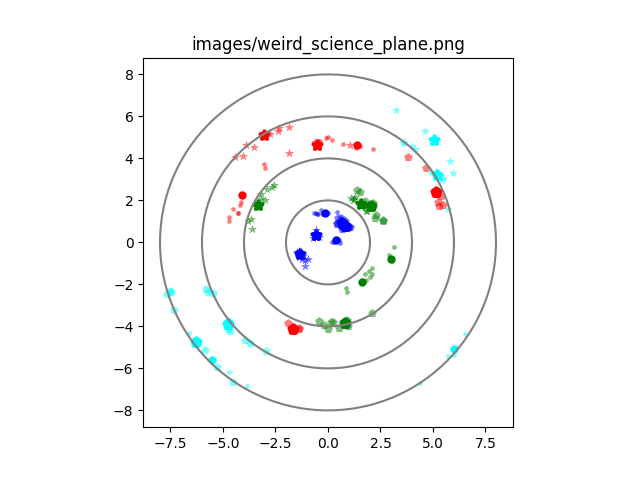
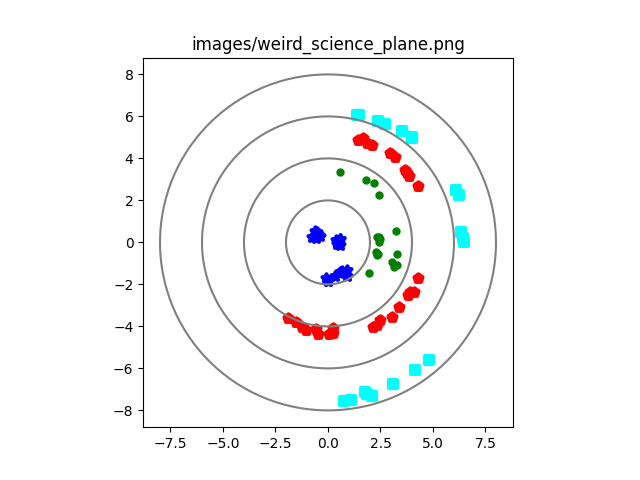
create nodes and db or load them from db

diff --git a/rattle_snake/plane_map.py b/rattle_snake/plane_map.py
@@ -1,11 +1,18 @@
 """
 draw the concentric circles
 """
+from datetime import datetime
 import matplotlib.pyplot as plt
 import numpy as np
 
 from rattle_snake.constants import BeingCulture
-from rattle_snake.db_helpers import db_setup, create_node, create_connection
+from rattle_snake.db_helpers import (
+    db_setup,
+    create_node,
+    create_connection,
+    get_num_circles,
+    get_plane_nodes,
+)
 
 
 class PlaneMap:
@@ -27,22 +34,53 @@ class PlaneMap:
     markers = ["*", ".", "p", "s", "v"]
 
     def __init__(
-        self, being_culture: str, num_circles: int = 4, create_new_nodes: bool = True
+        self,
+        db_file: str = "",
+        being_culture: BeingCulture = BeingCulture.WEIRD,
+        num_circles: int = 4,
     ):
-        """
+        """Sets up the plane map
+
+        Either creates all the nodes or loads them from an existing database
+
         Args:
             being_culture (str): One of "weird_science", "dream_realm", "deep_denizen"
             num_circles (int): Number of tiered circles to draw
+            create_new_nodes (bool): Indicates whether to load existing or create new nodes.
+            db_file (str): Path to a db_file
         """
-        # ensure that the database is ready to go
-        db_setup()
-        self.being_culture = BeingCulture(being_culture)
-        self.num_circles = num_circles
-        # nodes setup
+        self.being_culture = being_culture
+        if db_file:
+            self.db_file = db_file
+            db_setup(db_file=db_file)
+            self.num_circles = get_num_circles(self.db_file, self.being_culture.value)
+            self.load_nodes()
+        else:
+            db_file_name = self.generate_sqlite_db()
+            self.db_file = db_file_name
+            self.num_circles = num_circles
+            db_setup(db_file=db_file_name)
+
+            self.generate_nodes()
+
+    def save(self):
+        """Save an image of the map in is current state"""
+        plt.savefig(self.title)
+
+    def generate_sqlite_db(self) -> str:
+        """Generate a new sqlite database"""
+
+        now_str = datetime.now().strftime("%Y-%m-%d-%H-%M-%S")
+        db_file_name = f"nodes-{now_str}.db"
+
+        return db_file_name
+
+    def load_nodes(self) -> None:
+        """Load the nodes for the given plane from the given db"""
         self.stratum_radii = 2.0
         self.stratum_boundaries = [
             ((i) * self.stratum_radii, (i + 1) * self.stratum_radii)
-            for i in range(num_circles)
+            for i in range(self.num_circles)
         ]
 
         # plotting setup
@@ -52,13 +90,19 @@ class PlaneMap:
         self.title = self.map_file_names[self.being_culture]
         plt.title(self.title)
 
-        # this populates the nodes table
-        if create_new_nodes:
-            self.generate_nodes()
+        self.draw_circles()
 
-    def save(self):
-        """Save an image of the map in is current state"""
-        plt.savefig(self.title)
+        self.nodes = get_plane_nodes(self.db_file, self.being_culture.value)
+
+        for _, x, y, _, stratum_id, _, _ in self.nodes:
+
+            self.ax.scatter(
+                x,
+                y,
+                color=self.colors[stratum_id - 1],
+                marker=self.markers[stratum_id - 1],
+                linewidths=3.0,
+            )
 
     def generate_nodes(self, k: int = 3, min_support: int = 3, max_support: int = 10):
         """Generate the nodes.
@@ -66,7 +110,26 @@ class PlaneMap:
         There are k population centers in each stratum.
         For each population center we generate a random nubmer of
         supporting/surround nodes.
+
+        Sets up the nodes property of this class
         """
+        self.nodes = []
+        # nodes setup
+        self.stratum_radii = 2.0
+        self.stratum_boundaries = [
+            ((i) * self.stratum_radii, (i + 1) * self.stratum_radii)
+            for i in range(self.num_circles)
+        ]
+
+        # plotting setup
+        self.fig = plt.figure()
+        self.ax = self.fig.add_subplot(111)
+        self.ax.set_aspect(1)
+        self.title = self.map_file_names[self.being_culture]
+        plt.title(self.title)
+
+        self.draw_circles()
+
         stratum_num = 0
         for color_num, bounds in enumerate(self.stratum_boundaries):
             print(f"stratum number {stratum_num}")
@@ -95,10 +158,18 @@ class PlaneMap:
                 # is_population_center true == 1
                 # yeild is fixed at 100 for now
                 population_center_resource_yeild = np.random.randint(100, 200)
-                node = (x, y, stratum_num, 1, population_center_resource_yeild)
+                node = (
+                    x,
+                    y,
+                    self.being_culture.value,
+                    stratum_num,
+                    1,
+                    population_center_resource_yeild,
+                )
 
-                conn = create_connection()
+                conn = create_connection(self.db_file)
                 create_node(conn, node)
+                self.nodes.append(node)
 
                 # generate supporting nodes
                 num_support = np.random.randint(min_support, max_support + 1)
@@ -126,8 +197,16 @@ class PlaneMap:
                         int(population_center_resource_yeild * 0.6),
                     )
                     # 0 for not a population center
-                    node = (x, y, stratum_num, 0, supporting_node_resource_yeild)
+                    node = (
+                        x,
+                        y,
+                        self.being_culture.value,
+                        stratum_num,
+                        0,
+                        supporting_node_resource_yeild,
+                    )
                     create_node(conn, node)
+                    self.nodes.append(node)
 
     def draw_circles(self):
         """Draw the domain of the weird science beings"""
@@ -142,19 +221,20 @@ class PlaneMap:
             # draw a circle
             self.ax.plot(x, y, color="gray")
 
-    def draw(self):
-        """Draw everyting for this realm map"""
-        self.draw_circles()
-        # TODO replace with a load nodes from the database
-        self.generate_nodes()
-
 
 def main():
-    plane_map = PlaneMap(being_culture="weird_science")
-    plane_map.draw()
+    plane_map = PlaneMap(being_culture=BeingCulture.WEIRD)
     plane_map.save()
 
-    print("Drawing Complete")
+    print("Drawing Complete.")
+    print(f"saved to {plane_map.title}")
+
+    # test the loading
+    plane_map = PlaneMap(
+        db_file=plane_map.db_file, being_culture=plane_map.being_culture
+    )
+    plane_map.save()
+    print("Drawing complete from map loaded from the db")
 
 
 if __name__ == "__main__":

diff --git a/rattle_snake/db_helpers.py b/rattle_snake/db_helpers.py
@@ -8,19 +8,31 @@ CREATE TABLE IF NOT EXISTS nodes (
   node_id INTEGER PRIMARY KEY,
   x REAL NOT NULL,
   y REAL NOT NULL,
+  plane TEXT NOT NULL,
   stratum_id INTEGER NOT NULL,
   is_population_center INTERGER NOT NULL,
   resource_yeild INTEGER NOT NULL
 );
 """
 
+
 INSERT_NODE_QUERY = """
-INSERT INTO nodes (x,y,stratum_id,is_population_center,resource_yeild)
-VALUES(?,?,?,?,?)
+INSERT INTO nodes (x,y,plane,stratum_id,is_population_center,resource_yeild)
+VALUES(?,?,?,?,?,?)
 """
 
 
-def create_connection(db_file=PLANES_DB_FILE):
+NUM_CIRCLES_QUERY = """
+SELECT MAX(stratum_id) from nodes where plane = ?;
+"""
+
+
+GET_PLANE_NODES_QUERY = """
+SELECT * from nodes where plane = ?;
+"""
+
+
+def create_connection(db_file):
     """returns a connection to the db_file"""
     conn = None
     try:
@@ -40,9 +52,10 @@ def create_nodes_table(conn):
 
 def create_node(conn, node):
     """
-    node is a list/tuple of 5 values
+    node is a list/tuple of 6 values
     - x
     - y
+    - plane
     - stratum_id
     - is_population_center
     - resource_yeild
@@ -53,7 +66,25 @@ def create_node(conn, node):
     print(f"added node {node}")
 
 
-def db_setup():
+def db_setup(db_file: str):
     """Sets up the database with tables if it hasn't already been setup."""
-    conn = create_connection()
+    conn = create_connection(db_file=db_file)
     create_nodes_table(conn)
+
+
+def get_num_circles(db_file: str, plane: str) -> int:
+    conn = create_connection(db_file)
+    cur = conn.cursor()
+    cur.execute(NUM_CIRCLES_QUERY, (plane,))
+    rows = cur.fetchall()
+    num_circles = int(rows[0][0])
+    print(f"The number of cirlces retrived for {plane} was {num_circles}")
+    return num_circles
+
+
+def get_plane_nodes(db_file: str, plane: str):
+    conn = create_connection(db_file)
+    cur = conn.cursor()
+    cur.execute(GET_PLANE_NODES_QUERY, (plane,))
+    rows = cur.fetchall()
+    return rows

diff --git a/README.md b/README.md
@@ -2,7 +2,6 @@
 
 Python library for generating random points
 
-
 ## Setup
 
 ### pyenv
@@ -45,3 +44,18 @@ One pattern is to use files
 Another is to consider using SQLite
 
 Third option, translate to Elixir
+
+# Streams
+
+## October 26, 2022
+
+- Whenever a new call to `generate_nodes` is called
+  we'll put those nodes in a new database. Created
+  a function to make a new database file and added the
+  `create_new_nodes` argument of the constructor of
+  `PlaneMap`.
+  to create new database name.
+- When instantiating a `PlaneMap` add option to load 
+  from a database or create a database. Use a `load_nodes` 
+  function.
+
